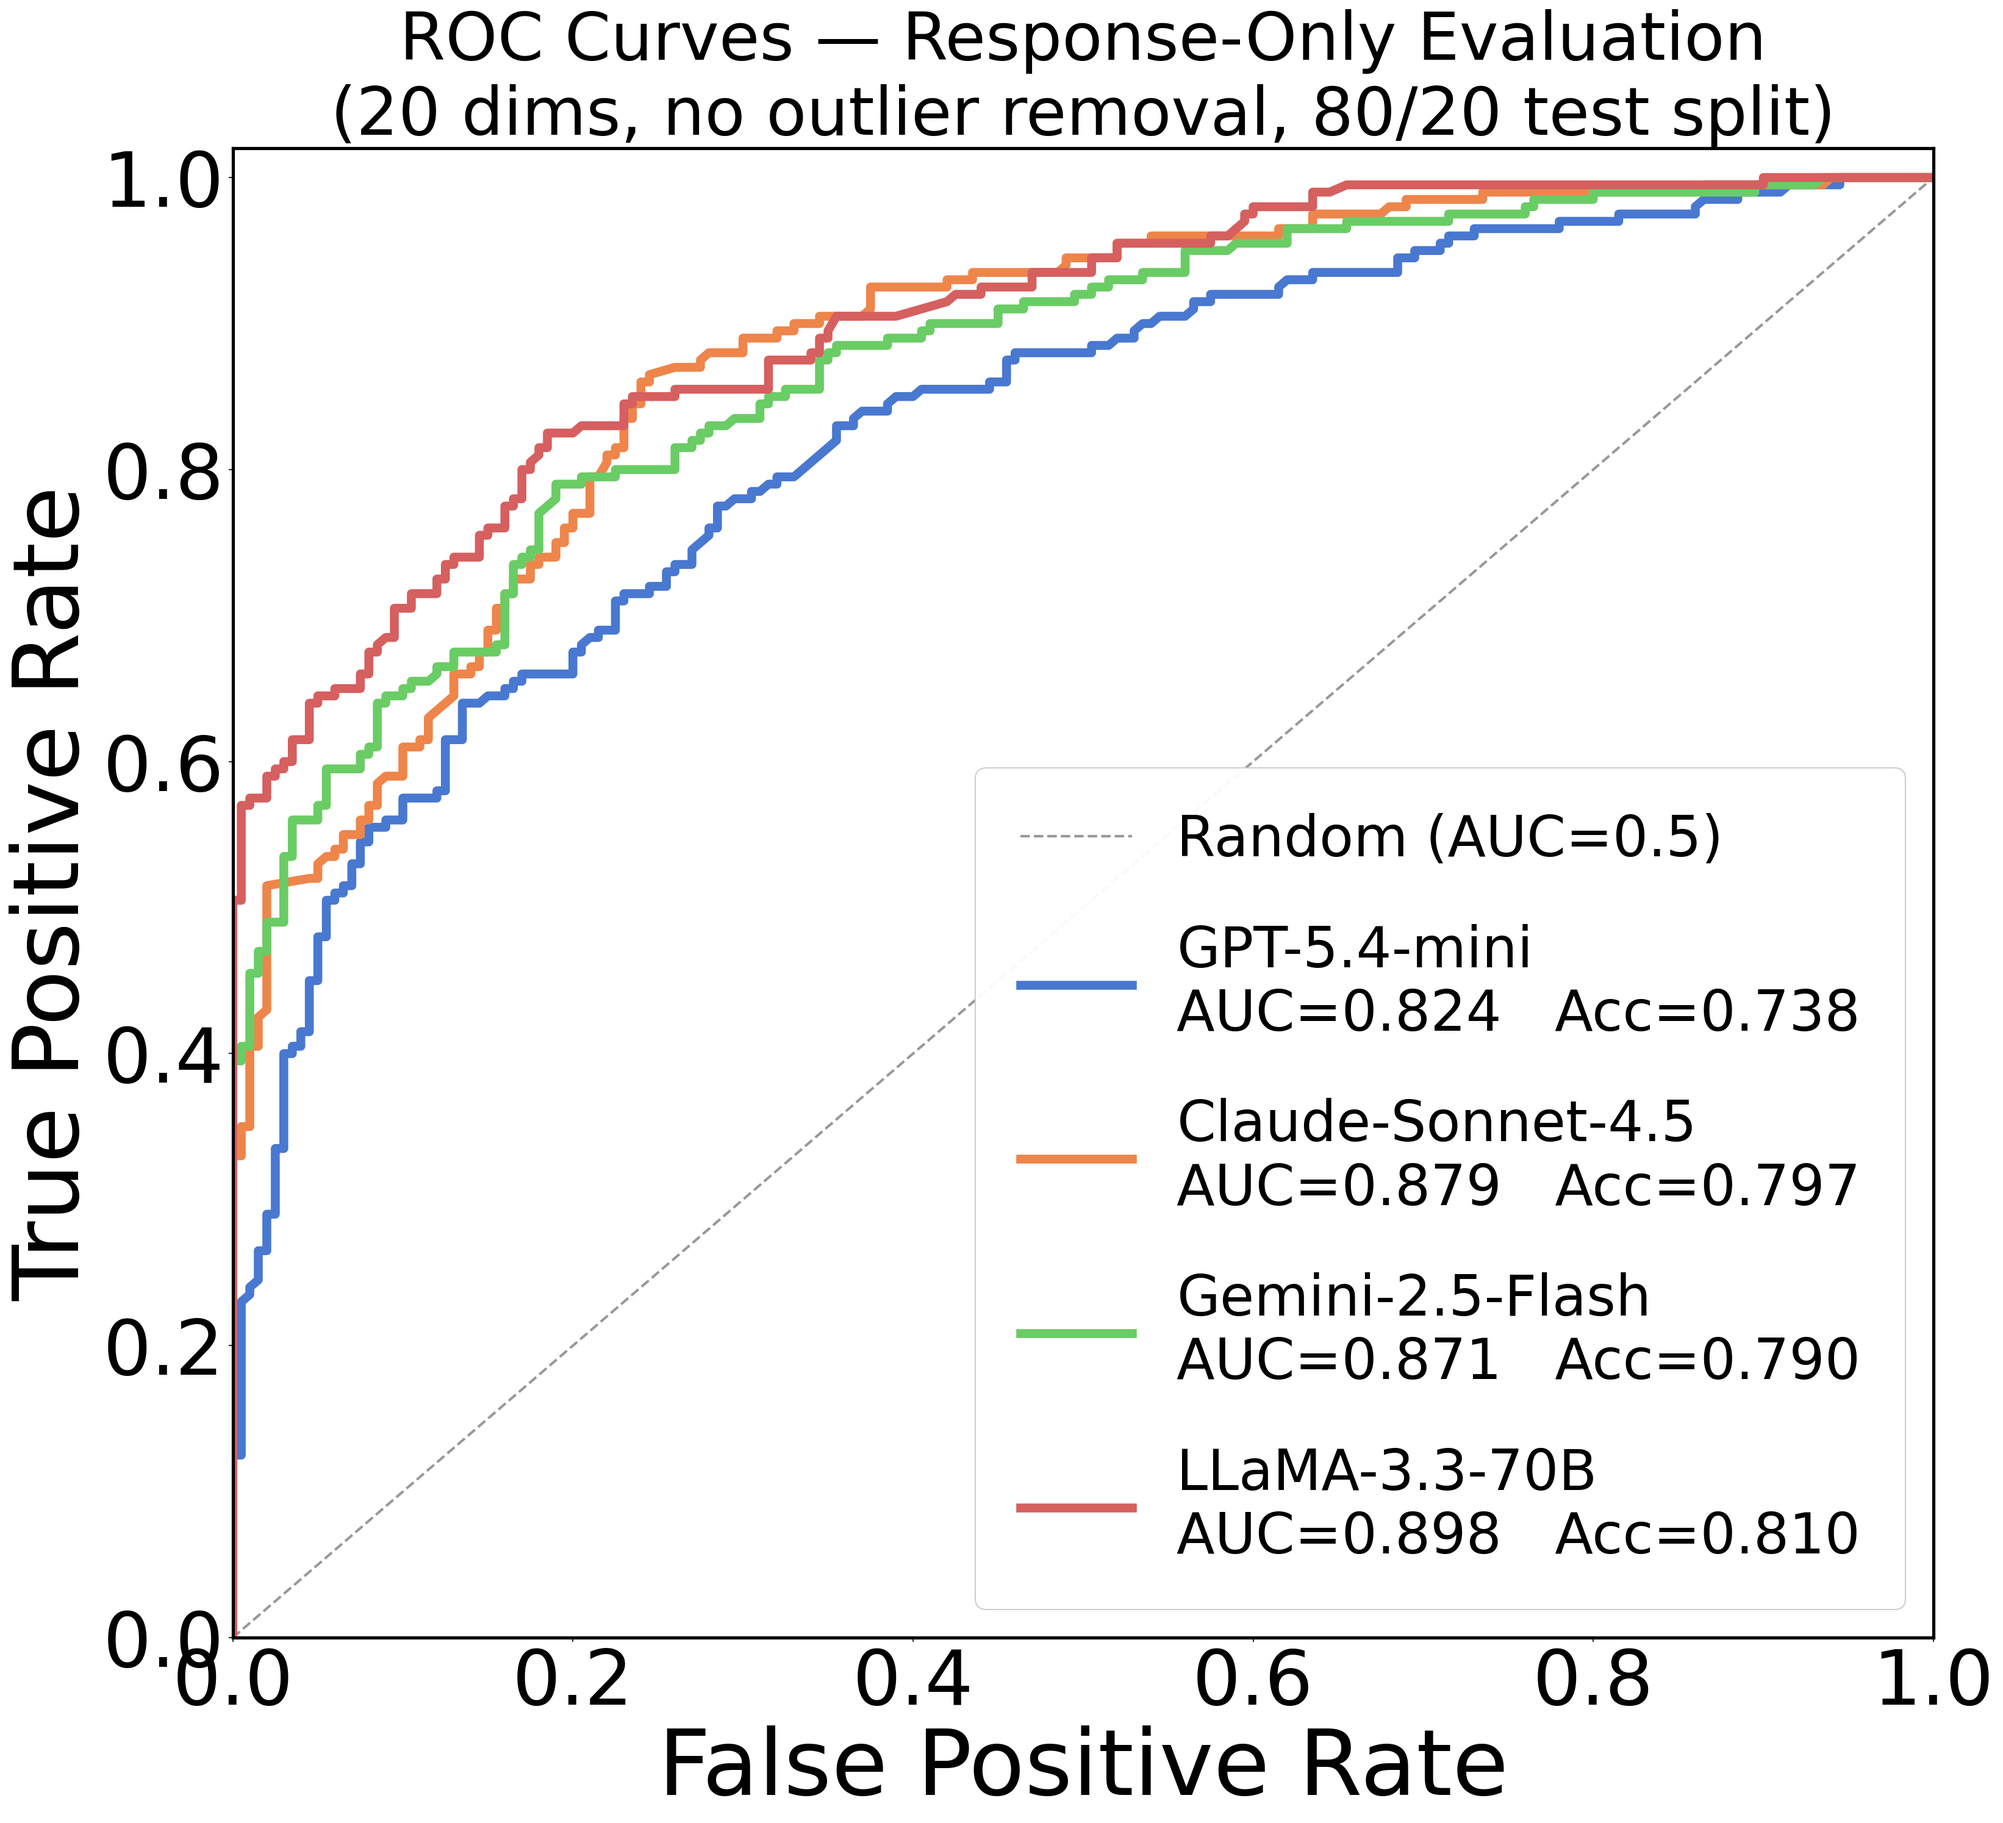
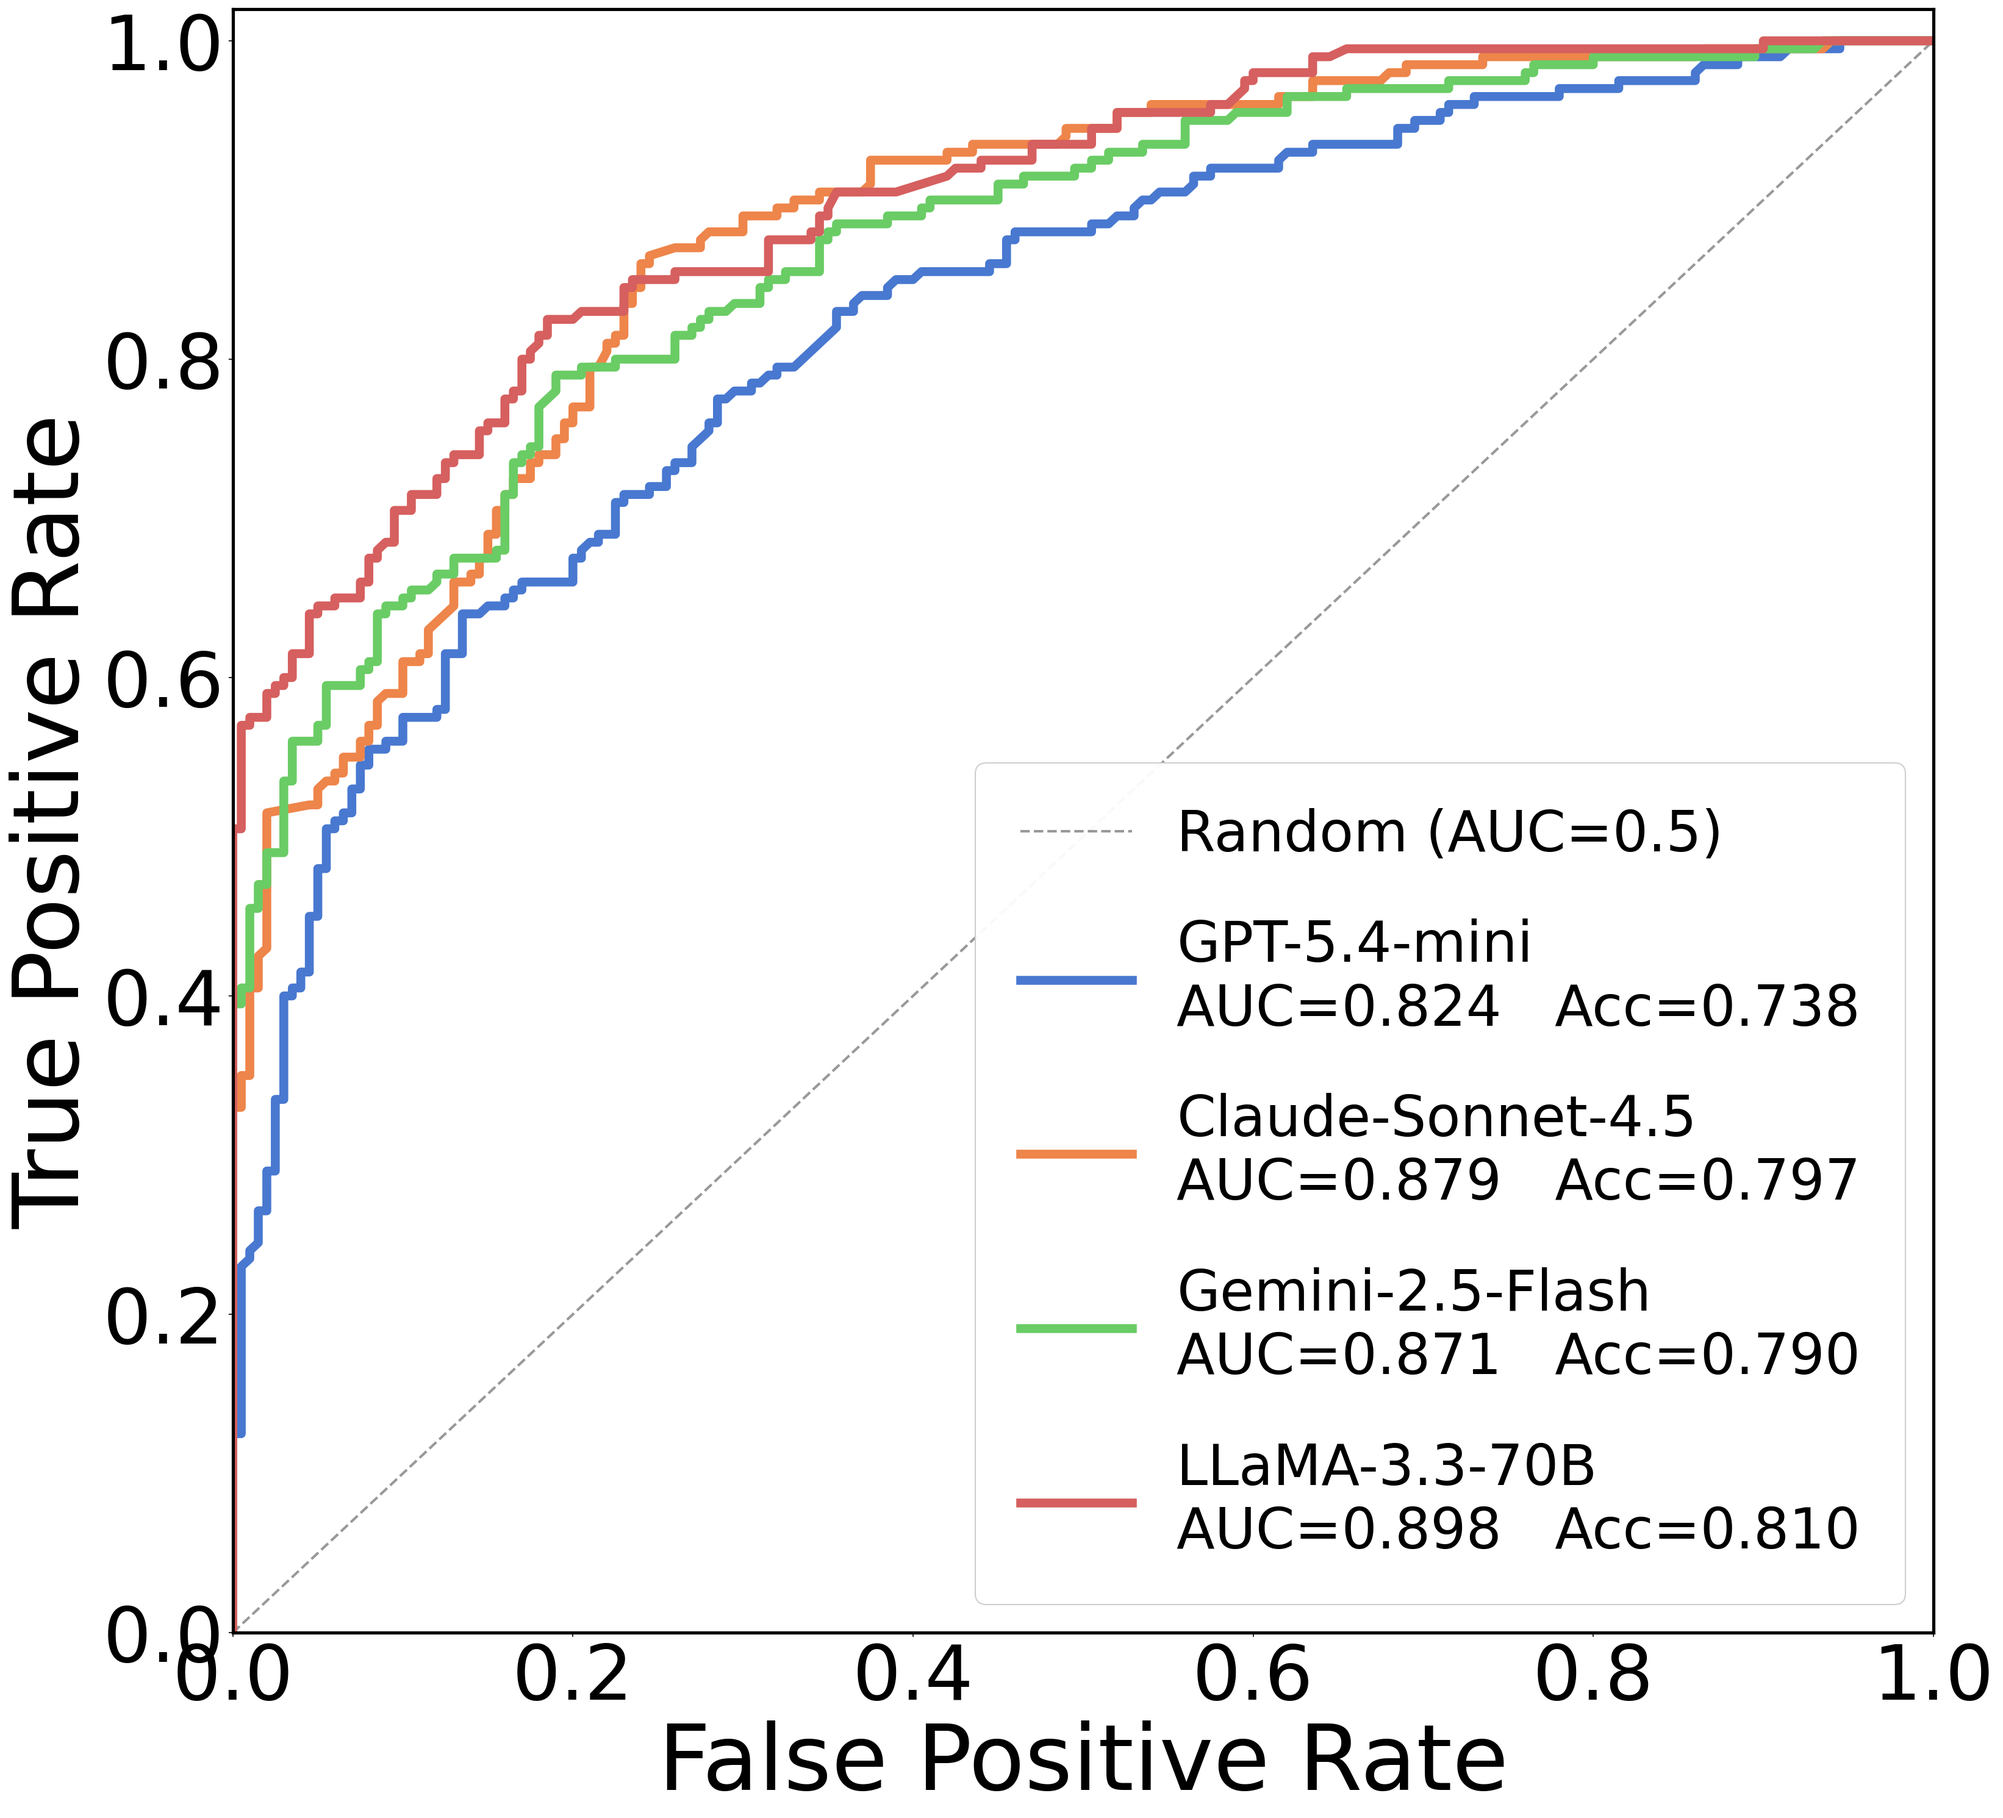
GRAP reproduce

diff --git a/src/analyze.py b/src/analyze.py
@@ -518,8 +518,6 @@ def _make_roc_overlay(roc_entries: list[dict], out_path: str) -> None:
     ax.set_xlim([0, 1]); ax.set_ylim([0, 1.02])
     ax.set_xlabel("False Positive Rate", fontsize=11)
     ax.set_ylabel("True Positive Rate",  fontsize=11)
-    ax.set_title("ROC Curves (Response-Only) — LLM Gender Bias\n"
-                 "(── original  ╌ top-200 removed)", fontsize=10)
     ax.legend(fontsize=8, loc="lower right", framealpha=0.9)
     plt.tight_layout()
     fig.savefig(out_path, dpi=150)
@@ -919,8 +917,6 @@ def _make_roc_paper(out_dir: str, score_dir_ro: str) -> None:
     ax.set_xlabel("False Positive Rate", fontsize=72)
     ax.set_ylabel("True Positive Rate",  fontsize=72)
     ax.tick_params(axis='both', labelsize=60)
-    ax.set_title("ROC Curves — Response-Only Evaluation\n"
-                 "(20 dims, no outlier removal, 80/20 test split)", fontsize=52)
     ax.legend(fontsize=44, loc="lower right", framealpha=0.95,
               handlelength=2.0, labelspacing=1.0, borderpad=0.8)
     for spine in ax.spines.values():

diff --git a/README.md b/README.md
@@ -28,7 +28,6 @@ GRAP evaluates gender bias by presenting LLMs with 1,000 paired prompts that are
 │       └── response_llama-3.3-70b-instruct.csv
 │
 ├── rubric/
-│   ├── bias_rubric.json             # Full rubric: system prompt + user template + dimensions
 │   ├── dimensions.json              # Dimension definitions only (reference)
 │   └── judge_prompt.txt             # Human-readable judge prompt documentation
 │
